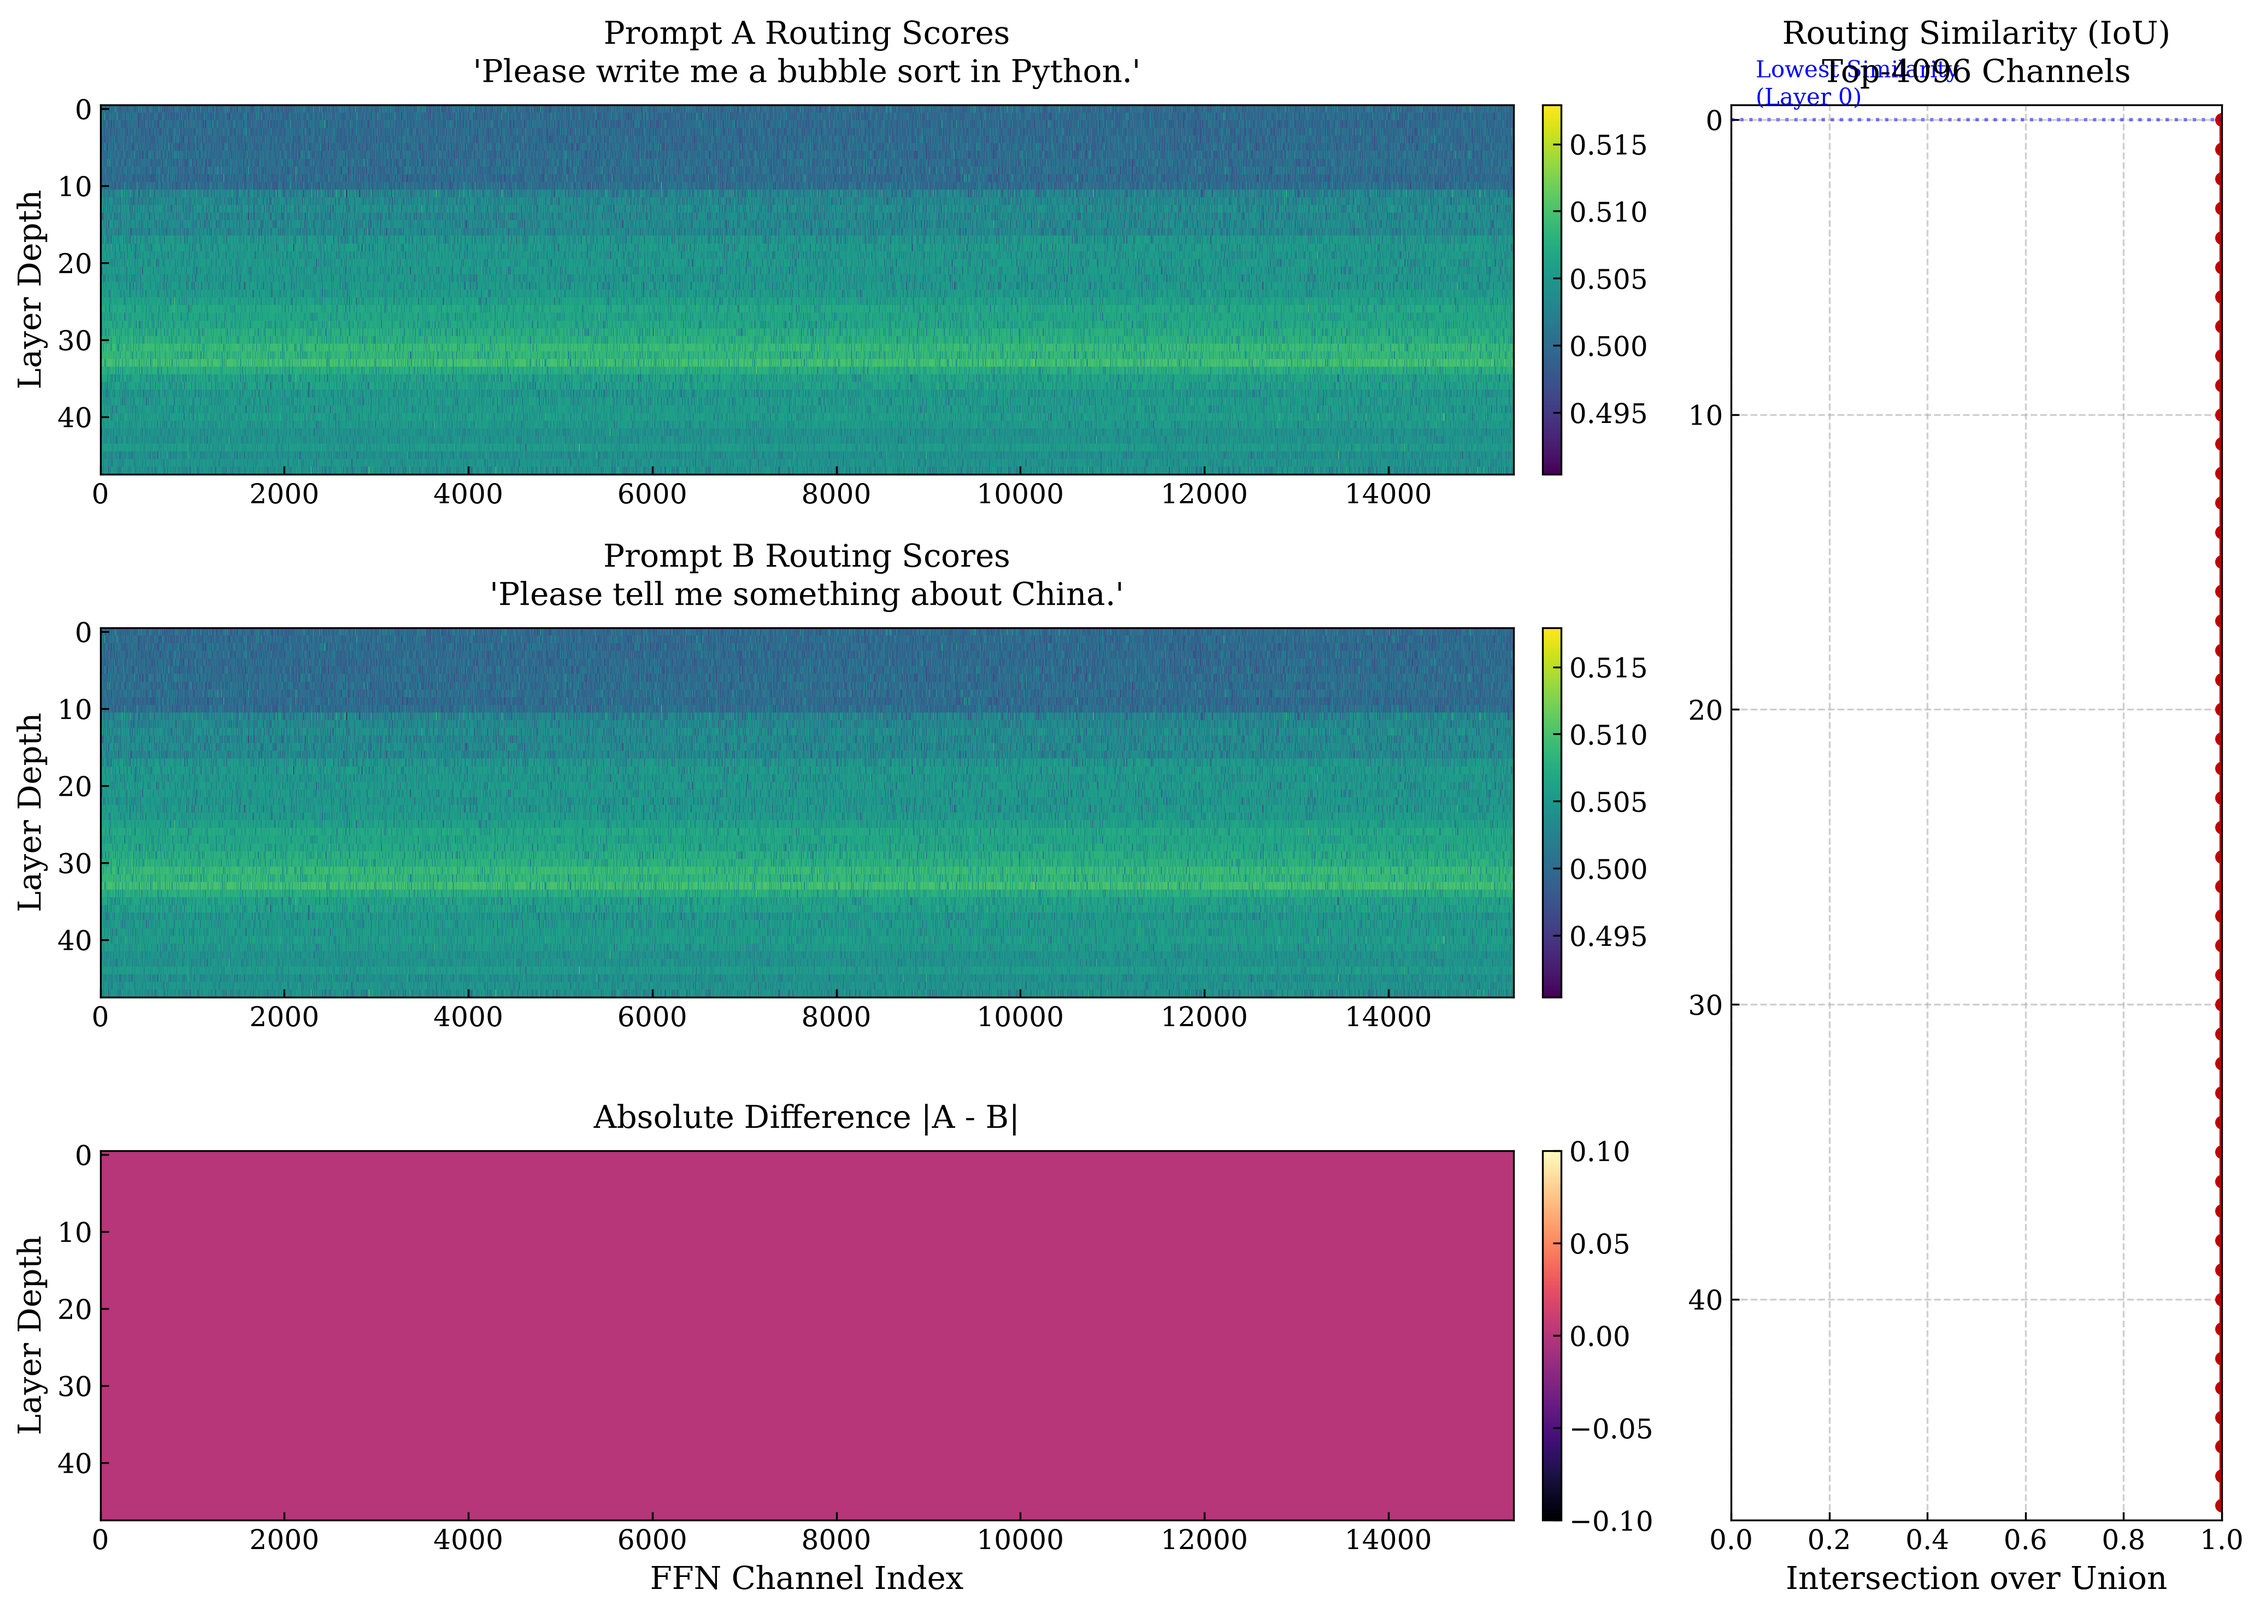
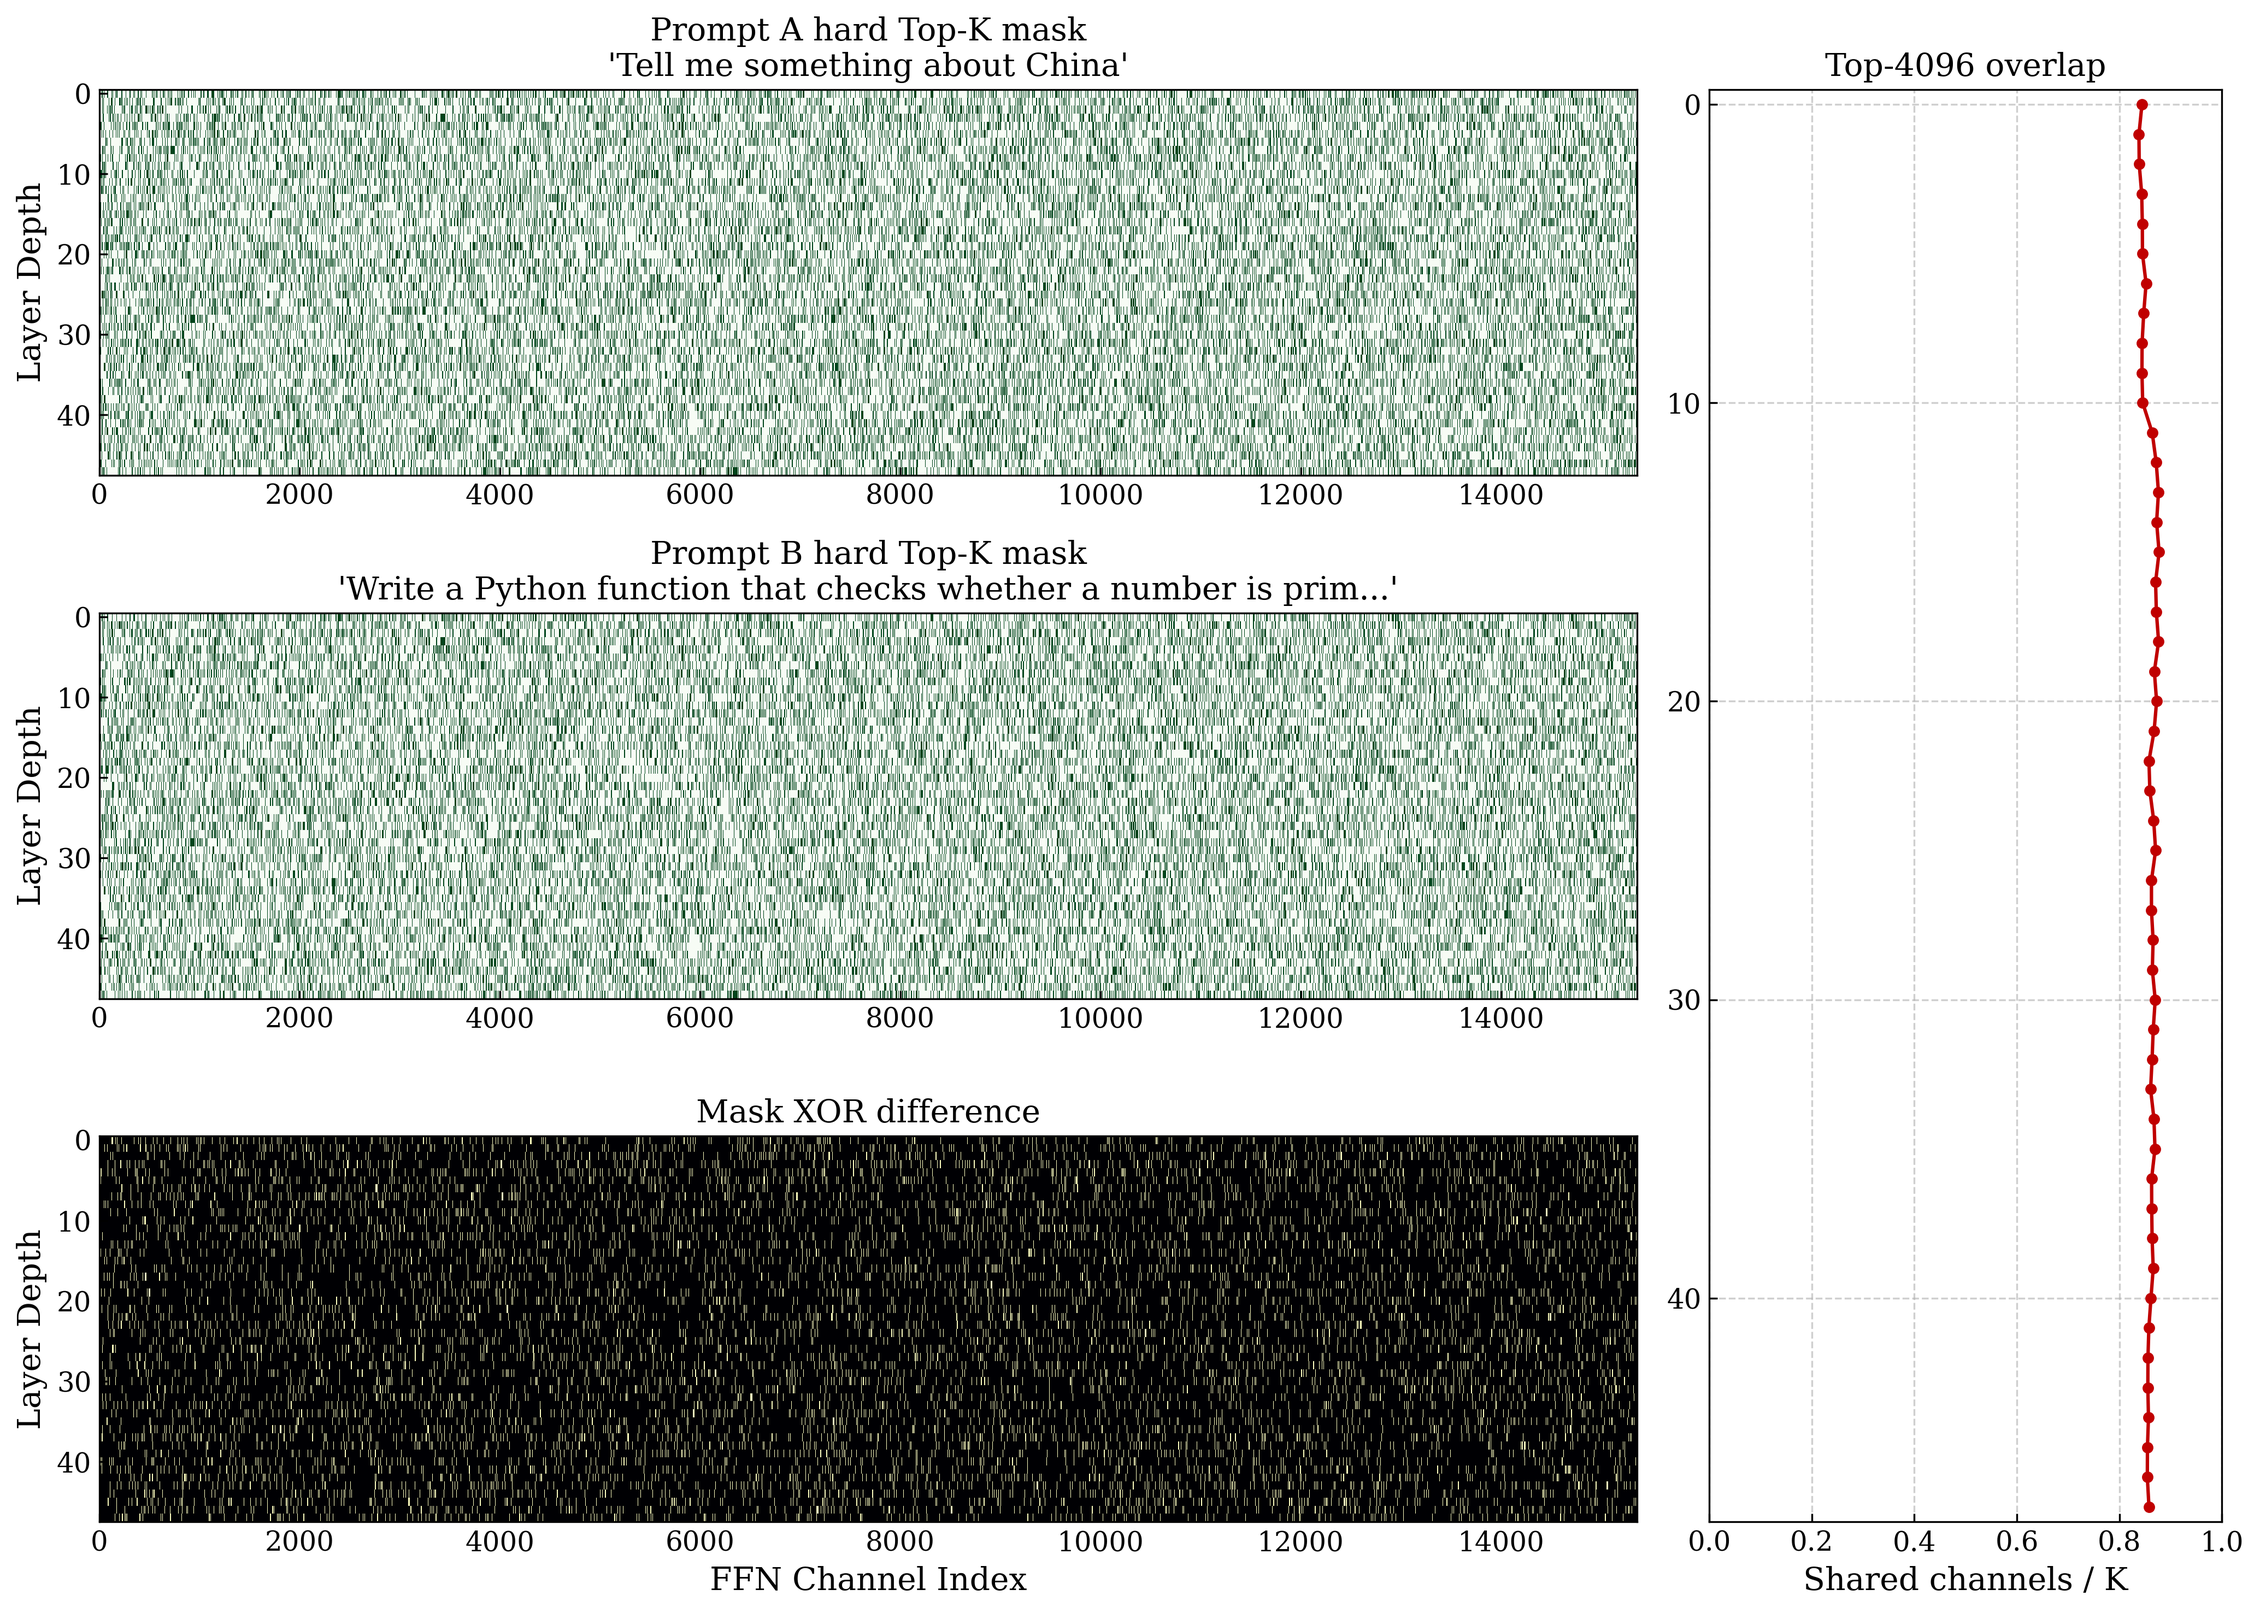
dead model

diff --git a/inference.py b/inference.py
@@ -79,6 +79,26 @@ def predictor_payload(checkpoint: Path) -> Path:
     return path
 
 
+def predictor_tokenizer_source(checkpoint: Path, predictor_source: str) -> str:
+    embedded = checkpoint / "predictor_tokenizer"
+    if embedded.is_dir():
+        return str(embedded)
+
+    source = Path(predictor_source)
+    if source.is_dir():
+        LOGGER.warning(
+            "Checkpoint has no embedded predictor tokenizer; loading it from %s",
+            source,
+        )
+        return str(source)
+
+    raise FileNotFoundError(
+        f"Missing predictor tokenizer in {embedded} and predictor source is not a "
+        f"local directory: {predictor_source}. Pass --predictor-model with the "
+        "training predictor directory."
+    )
+
+
 def resolve_predictor_config(manifest: dict) -> dict:
     """Load predictor settings from the current checkpoint manifest."""
     return {
@@ -165,11 +185,9 @@ def load_model(args: argparse.Namespace):
     if base_tokenizer.pad_token_id is None or base_tokenizer.eos_token_id is None:
         raise ValueError("Checkpoint tokenizer must define PAD and EOS tokens")
 
-    predictor_tokenizer_path = checkpoint / "predictor_tokenizer"
-    if not predictor_tokenizer_path.is_dir():
-        raise FileNotFoundError(f"Missing predictor tokenizer: {predictor_tokenizer_path}")
+    predictor_tokenizer_path = predictor_tokenizer_source(checkpoint, predictor_source)
     predictor_tokenizer = AutoTokenizer.from_pretrained(
-        str(predictor_tokenizer_path), local_files_only=True
+        predictor_tokenizer_path, local_files_only=True
     )
     dtype = (
         "auto"

diff --git a/tests/unit/test_train.py b/tests/unit/test_train.py
@@ -1,11 +1,13 @@
+import tempfile
 import unittest
+from pathlib import Path
 from types import SimpleNamespace
 from unittest.mock import patch
 
 import torch
 import torch.nn as nn
 
-from train import IFPruningTrainer
+from train import IFPruningTrainer, PredictorTokenizerCheckpointCallback
 
 
 class MixedDtypeModel(nn.Module):
@@ -28,6 +30,21 @@ class TrainingConfigTests(unittest.TestCase):
         self.assertLess(config.per_device_eval_batch_size, config.per_device_train_batch_size)
         self.assertEqual(config.save_steps, 500)
         self.assertEqual(config.save_total_limit, 1)
+
+    def test_predictor_tokenizer_is_saved_in_checkpoint(self):
+        tokenizer = SimpleNamespace(
+            save_pretrained=lambda path: Path(path).mkdir(parents=True)
+        )
+        callback = PredictorTokenizerCheckpointCallback(tokenizer)
+        with tempfile.TemporaryDirectory() as output_dir:
+            callback.on_save(
+                SimpleNamespace(output_dir=output_dir),
+                SimpleNamespace(global_step=500, is_world_process_zero=True),
+                SimpleNamespace(),
+            )
+            self.assertTrue(
+                (Path(output_dir) / "checkpoint-500" / "predictor_tokenizer").is_dir()
+            )
 
 
 class ZeRO3OptimizerGroupingTests(unittest.TestCase):

diff --git a/tests/unit/test_inference.py b/tests/unit/test_inference.py
@@ -1,0 +1,35 @@
+import tempfile
+import unittest
+from pathlib import Path
+
+from inference import predictor_tokenizer_source
+
+
+class PredictorTokenizerSourceTests(unittest.TestCase):
+    def test_prefers_tokenizer_embedded_in_checkpoint(self):
+        with tempfile.TemporaryDirectory() as directory:
+            root = Path(directory)
+            embedded = root / "checkpoint" / "predictor_tokenizer"
+            embedded.mkdir(parents=True)
+            fallback = root / "predictor"
+            fallback.mkdir()
+            self.assertEqual(
+                predictor_tokenizer_source(embedded.parent, str(fallback)),
+                str(embedded),
+            )
+
+    def test_uses_local_predictor_for_incomplete_checkpoint(self):
+        with tempfile.TemporaryDirectory() as directory:
+            root = Path(directory)
+            checkpoint = root / "checkpoint"
+            checkpoint.mkdir()
+            fallback = root / "predictor"
+            fallback.mkdir()
+            self.assertEqual(
+                predictor_tokenizer_source(checkpoint, str(fallback)),
+                str(fallback),
+            )
+
+
+if __name__ == "__main__":
+    unittest.main()

diff --git a/train.py b/train.py
@@ -52,6 +52,19 @@ class RankFilter(logging.Filter):
         return True
 
 
+class PredictorTokenizerCheckpointCallback(TrainerCallback):
+    """Save the predictor tokenizer alongside every Trainer checkpoint."""
+
+    def __init__(self, tokenizer: PreTrainedTokenizerBase):
+        self.tokenizer = tokenizer
+
+    def on_save(self, args, state, control, **kwargs):
+        if state.is_world_process_zero:
+            checkpoint_dir = Path(args.output_dir) / f"checkpoint-{state.global_step}"
+            self.tokenizer.save_pretrained(str(checkpoint_dir / "predictor_tokenizer"))
+        return control
+
+
 def setup_logging(output_dir: str, log_level: str = "INFO") -> tuple[logging.Logger, Path]:
     log_dir = Path(output_dir) / "logs"
     log_dir.mkdir(parents=True, exist_ok=True)
@@ -832,7 +845,8 @@ def main():
                 cfg.abort_on_zero_loss_steps,
                 cfg.abort_on_routing_collapse_logs,
                 cfg.min_routing_input_std,
-            )
+            ),
+            PredictorTokenizerCheckpointCallback(predictor_tokenizer),
         ],
         predictor_lr=cfg.predictor_lr,
         base_lr=cfg.base_lr,

diff --git a/README.md b/README.md
@@ -267,7 +267,7 @@ python inference.py \
   --checkpoint ./gemma-12B-ifpruning-output
 ```
 
-The checkpoint must contain the current manifest, base tokenizer, predictor tokenizer and the predictor payload produced by `train.py`. Use `--predictor-model` only when the path recorded in the manifest is unavailable on the inference machine.
+New checkpoints contain the manifest, both tokenizers and the predictor payload produced by `train.py`. For a checkpoint created before predictor tokenizers were embedded, inference uses the local predictor path recorded in the manifest. Use `--predictor-model` when that path is unavailable on the inference machine.
 
 Useful options:
 
